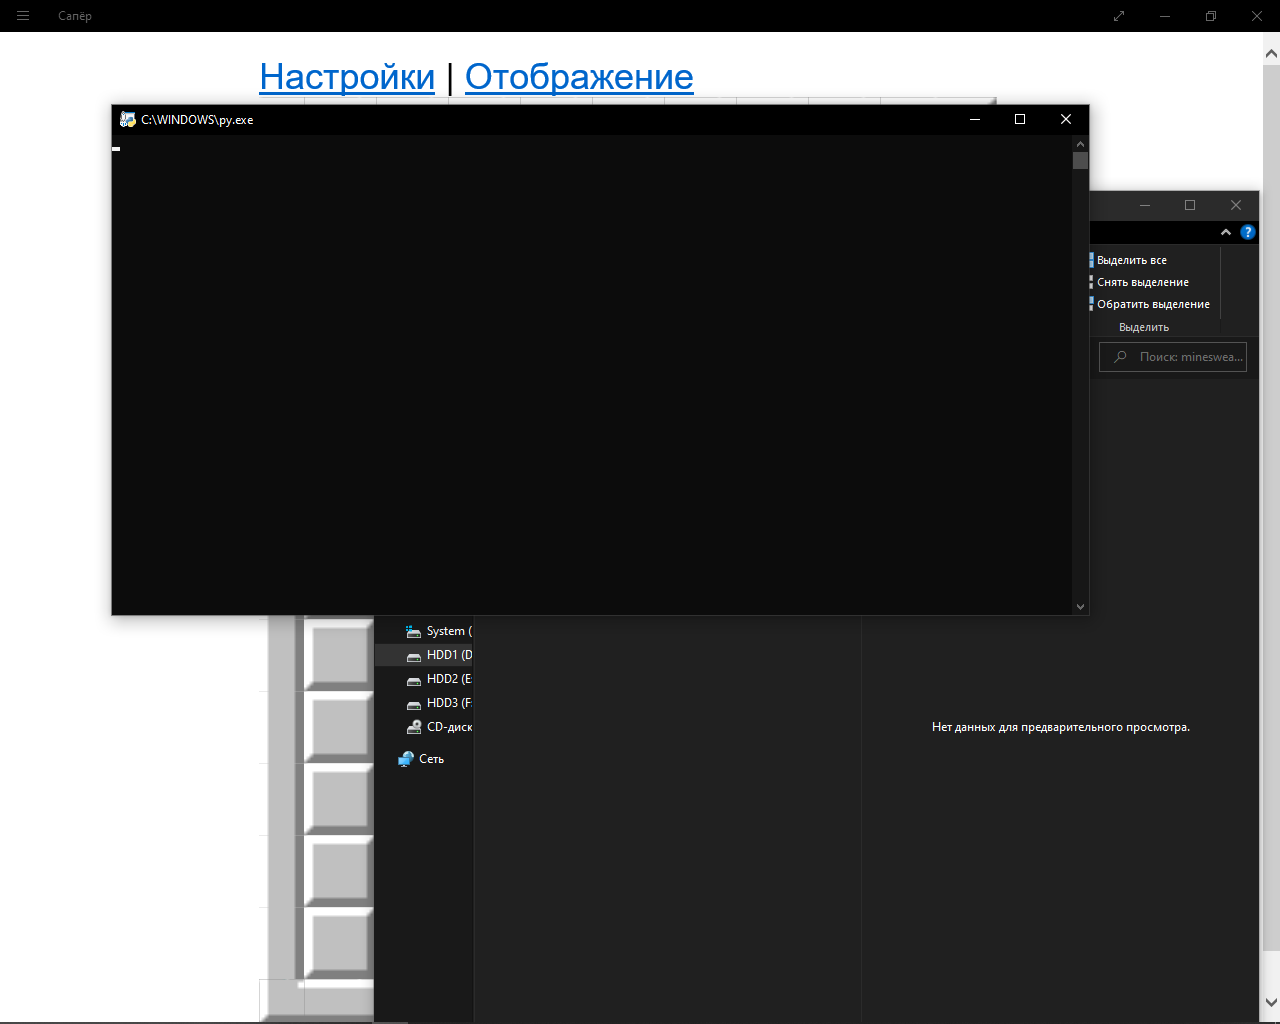
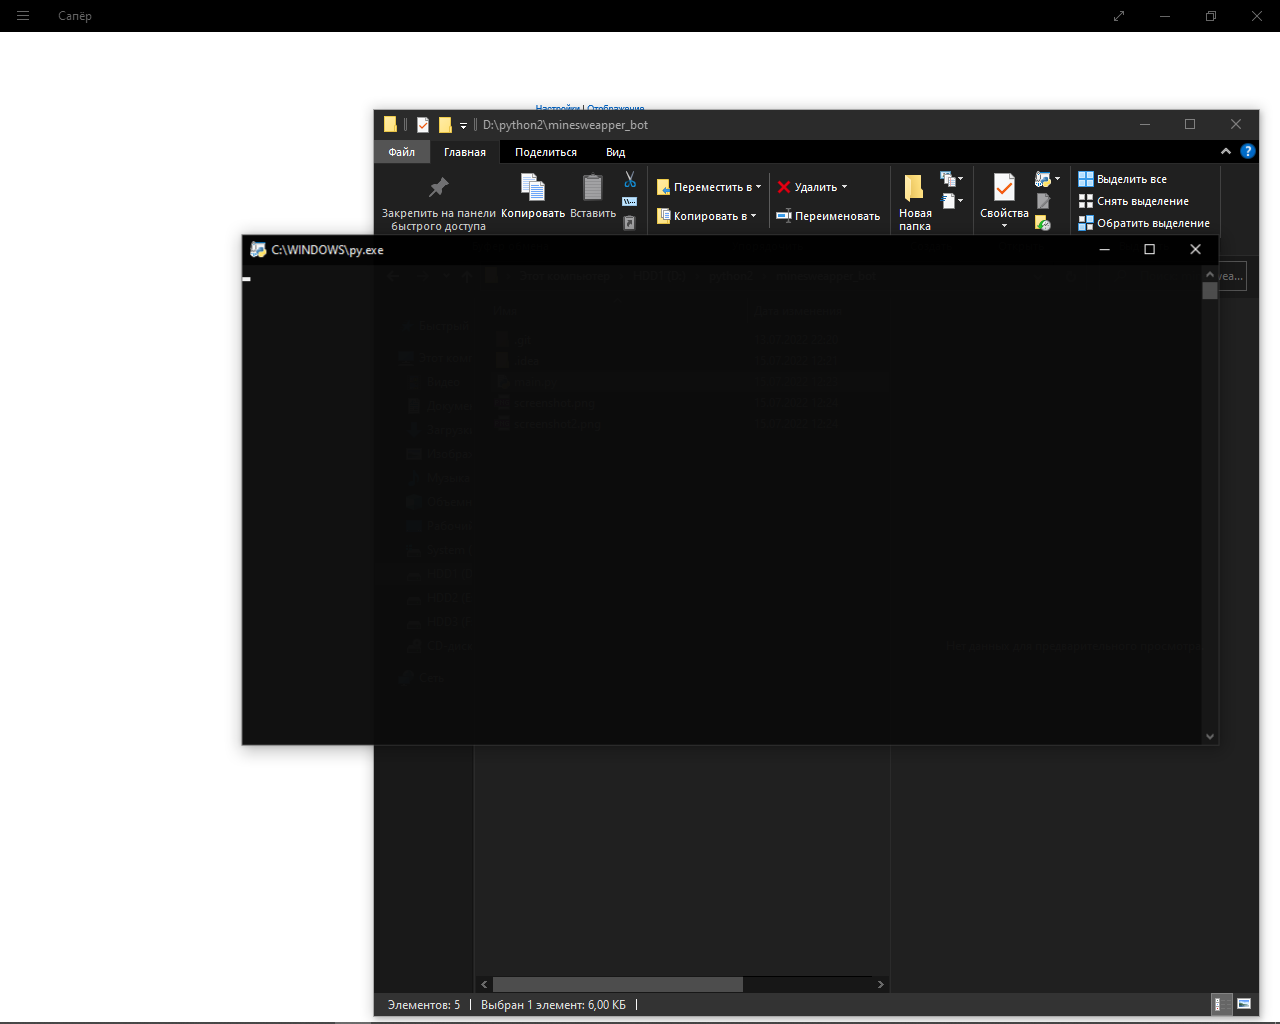
counting all field

Changed region(s): [[0.0625, 0.0625, 1.0, 1.0], [0.7188, 0.6875, 0.9375, 0.7188]]

diff --git a/main.py b/main.py
@@ -1,46 +1,66 @@
 import pyautogui
 import PIL
 from PIL import Image
+
 screen = pyautogui.screenshot("screenshot.png")
 # screen = Image.open("screenshot.png")
 pix = screen.load()
-begin_point_color = (255,0,0)
-field_begin_point_color = (128,128,128)
-cell_colors = [(192,192,192),(128,128,128),(255,255,255)]
+begin_point_color = (255, 0, 0)
+field_begin_point_color = (128, 128, 128)
+cell_colors_y = [(192, 192, 192), (128, 128, 128), (255, 255, 255)]
+cell_colors_x = [(192, 192, 192), (128, 128, 128), (255, 255, 255)]
 color_pos = 0
+zero_point = []
 
-def find_on_field(screen, pix, object,move_to=False, click=False,return_coords = False,find_last=False,beging_with=(0,0), find_only_in_row=False):
-    cords=()
+def find_on_field(screen, pix, object, move_to=False, click=False,
+                  return_coords=False, find_last=False, beging_with=(0, 0), find_only_in_row=False, find_only_in_column=False):
+    cords = ()
     begin_with_x = beging_with[0]
-    for y in range(beging_with[1],screen.height):
-        if find_only_in_row:
-            if pix[begin_with_x, y] == object:
+    if find_only_in_column:
+        y = beging_with[1]
+        for x in range(begin_with_x, screen.width):
+            if pix[x, y] == object:
                 if not find_last:
                     if move_to:
-                        pyautogui.moveTo(begin_with_x, y)
+                        pyautogui.moveTo(x, y)
                     if click:
-                        pyautogui.click(begin_with_x, y)
+                        pyautogui.click(x, y)
                     if return_coords:
-                        return (begin_with_x, y)
+                        return (x, y)
                     else:
                         return 0
                 else:
-                    cords = (begin_with_x, y)
-        else:
-            for x in range(begin_with_x,screen.width):
-                if pix[x, y] == object:
+                    cords = (x, y)
+    else:
+        for y in range(beging_with[1], screen.height):
+            if find_only_in_row:
+                if pix[begin_with_x, y] == object:
                     if not find_last:
                         if move_to:
-                            pyautogui.moveTo(x, y)
+                            pyautogui.moveTo(begin_with_x, y)
                         if click:
-                            pyautogui.click(x, y)
+                            pyautogui.click(begin_with_x, y)
                         if return_coords:
-                            return (x,y)
+                            return (begin_with_x, y)
                         else:
                             return 0
                     else:
-                        cords=(x,y)
-            begin_with_x = 0
+                        cords = (begin_with_x, y)
+            else:
+                for x in range(begin_with_x, screen.width):
+                    if pix[x, y] == object:
+                        if not find_last:
+                            if move_to:
+                                pyautogui.moveTo(x, y)
+                            if click:
+                                pyautogui.click(x, y)
+                            if return_coords:
+                                return (x, y)
+                            else:
+                                return 0
+                        else:
+                            cords = (x, y)
+                begin_with_x = 0
     if find_last:
         if move_to:
             pyautogui.moveTo(cords)
@@ -50,52 +70,93 @@ def find_on_field(screen, pix, object,move_to=False, click=False,return_coords =
             return cords
         else:
             return 0
-    return "aboba"
+    return 0
+
+
 # выделение нужного окна
-find_on_field(screen, pix,(255,255,255),True,True)
+find_on_field(screen, pix, (255, 255, 255), True, True)
 # скрин в нужном окне
 screen = pyautogui.screenshot("screenshot2.png")
 # screen = Image.open("screenshot2.png")
 
 pix = screen.load()
 
-#нахождение отправной точки отсчета
-cords = find_on_field(screen,pix, begin_point_color,False,False, True)
+# нахождение отправной точки отсчета
+cords = find_on_field(screen, pix, begin_point_color, False, False, True)
 x_cord = cords[0]
 
-y_cord = find_on_field(screen,pix, begin_point_color,True,True, True,True)[1]
+y_cord = find_on_field(screen, pix, begin_point_color, True, True, True, True)[1]
 
-#нахождение начальной точки поля с ячейками
-field_beging_coords = find_on_field(screen,pix, field_begin_point_color,True,False,True,False,(x_cord,y_cord),True)
-field_beging_coords = find_on_field(screen,pix, (255,255,255),True,False,True,False,(field_beging_coords[0],field_beging_coords[1]),True)
-cell = []
+# нахождение начальной точки поля с ячейками
+field_beging_coords = find_on_field(screen, pix, field_begin_point_color, True, False, True, False, (x_cord, y_cord),
+                                    True)
+field_beging_coords = find_on_field(screen, pix, (255, 255, 255), True, False, True, False,
+                                    (field_beging_coords[0], field_beging_coords[1]), True)
+cell_y = []
+cell_x = []
+# помечаем сколько пикселей занимает каждый цвет по у координате
+new_x, new_y = field_beging_coords[0], field_beging_coords[1]
 
-# помечаем сколько пикселей занимает каждый цвет
-new_x, new_y = field_beging_coords[0],field_beging_coords[1]
-
-for i in range(0,len(cell_colors)):
-    new_pos = find_on_field(screen, pix, cell_colors[i], False, False, True, False, (new_x, new_y),True)
+for i in range(0, len(cell_colors_y)):
+    new_pos = find_on_field(screen, pix, cell_colors_y[i], False, False, True, False, (new_x, new_y), True)
     distance = new_pos[1] - new_y
-    cell.append(distance)
+    cell_y.append(distance)
     new_y = new_pos[1]
 
-
 # считаем клетки по вертикали
-field_width = 0
-field_height = 0
+field_width = -1
+field_height = -1
 flag = True
-new_x, new_y = field_beging_coords[0],field_beging_coords[1]
-print(cell)
+new_x, new_y = field_beging_coords[0], field_beging_coords[1]
 while flag:
-    for i in range(len(cell)):
-        new_pos = find_on_field(screen, pix, cell_colors[i], True, False, True, False, (new_x, new_y), True)
+    field_height += 1
+    for i in range(len(cell_y)):
+        new_pos = find_on_field(screen, pix, cell_colors_y[i], True, False, True, False, (new_x, new_y), True)
         distance = new_pos[1] - new_y
         new_y = new_pos[1]
-        print(new_x,new_y,new_pos,distance)
-        if distance != cell[i%len(cell)]:
-            flag= False
+
+        if distance != cell_y[i % len(cell_y)]:
+            flag = False
             break
 
-    field_height+=1
-print(field_height)
+
+
+
+new_x, new_y = field_beging_coords[0], field_beging_coords[1]
+new_y= new_y+ sum(cell_y)//2
+
+new_pos = find_on_field(screen, pix, cell_colors_y[1], False, False, True, False, (0, new_y), False, True)
+new_pos = find_on_field(screen, pix, cell_colors_y[2], False, False, True, False, (new_pos[0], new_y), False, True)
+# #нашли начало отсчета кооординат по х
+zero_point = (new_pos[0],field_beging_coords[1])
+x_pos = new_pos[0]
+new_x = new_pos[0]
+for i in range(0, len(cell_colors_x)):
+    new_pos = find_on_field(screen, pix, cell_colors_y[i], False, False, True, False, (new_x, new_y), False,True)
+    distance = new_pos[0] - new_x
+    cell_x.append(distance)
+    new_x = new_pos[0]
+#считаем клетки по горизонтали
+new_x, new_y = field_beging_coords[0], field_beging_coords[1]
+new_y= new_y+ sum(cell_y)//2
+new_x = x_pos
+flag = True
+print("________________________________________________")
+while flag:
+    field_width += 1
+    for i in range(len(cell_x)):
+        new_pos = find_on_field(screen, pix, cell_colors_y[i], True, False, True, False, (new_x, new_y), False,True)
+        distance = new_pos[0] - new_x
+        new_x = new_pos[0]
+        # print(new_x, new_y, new_pos, distance)
+        if distance != cell_x[i % len(cell_x)]:
+            flag = False
+            break
+
+
+
+field = [[0]*field_width for y in range(field_height)]
+for i in field:
+    print(i)
+print("field size is",field_width,"X", field_height)
 s = input()
